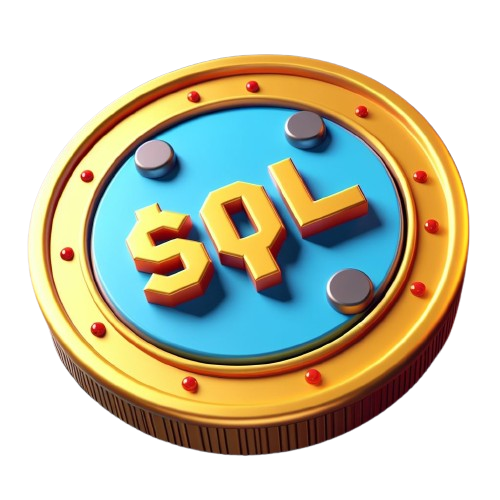
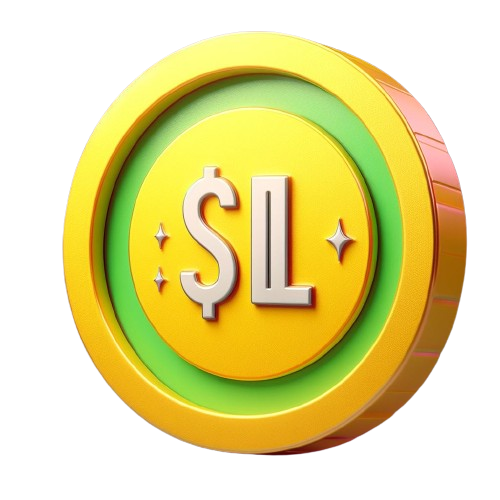
Personificacion hacia lenguajes

diff --git a/src/game/scenes/Preloader.ts b/src/game/scenes/Preloader.ts
@@ -34,7 +34,7 @@ export class Preloader extends Scene
         this.load.image('logo', 'logo.png');
         this.load.image('star', 'star.png');
         
-        this.load.image('platform', 'platforms/platform2.jpeg');
+        this.load.image('platform', 'platforms/platform1.jpeg');
         this.load.image("bush", "others/hills.png");
         this.load.image("iphyton", "others/phyton.png");
         this.load.image("sql", "others/sql.png");

diff --git a/src/game/managers/coin-manager.ts b/src/game/managers/coin-manager.ts
@@ -5,7 +5,7 @@ export class CoinManager {
     private scene: Scene;
     icon: string;
 
-    constructor(scene: Scene, icon: string = 'coin-phyton') {
+    constructor(scene: Scene, icon: string = 'coin-sql') {
         this.scene = scene;
         this.icon = icon;
         this.init();
